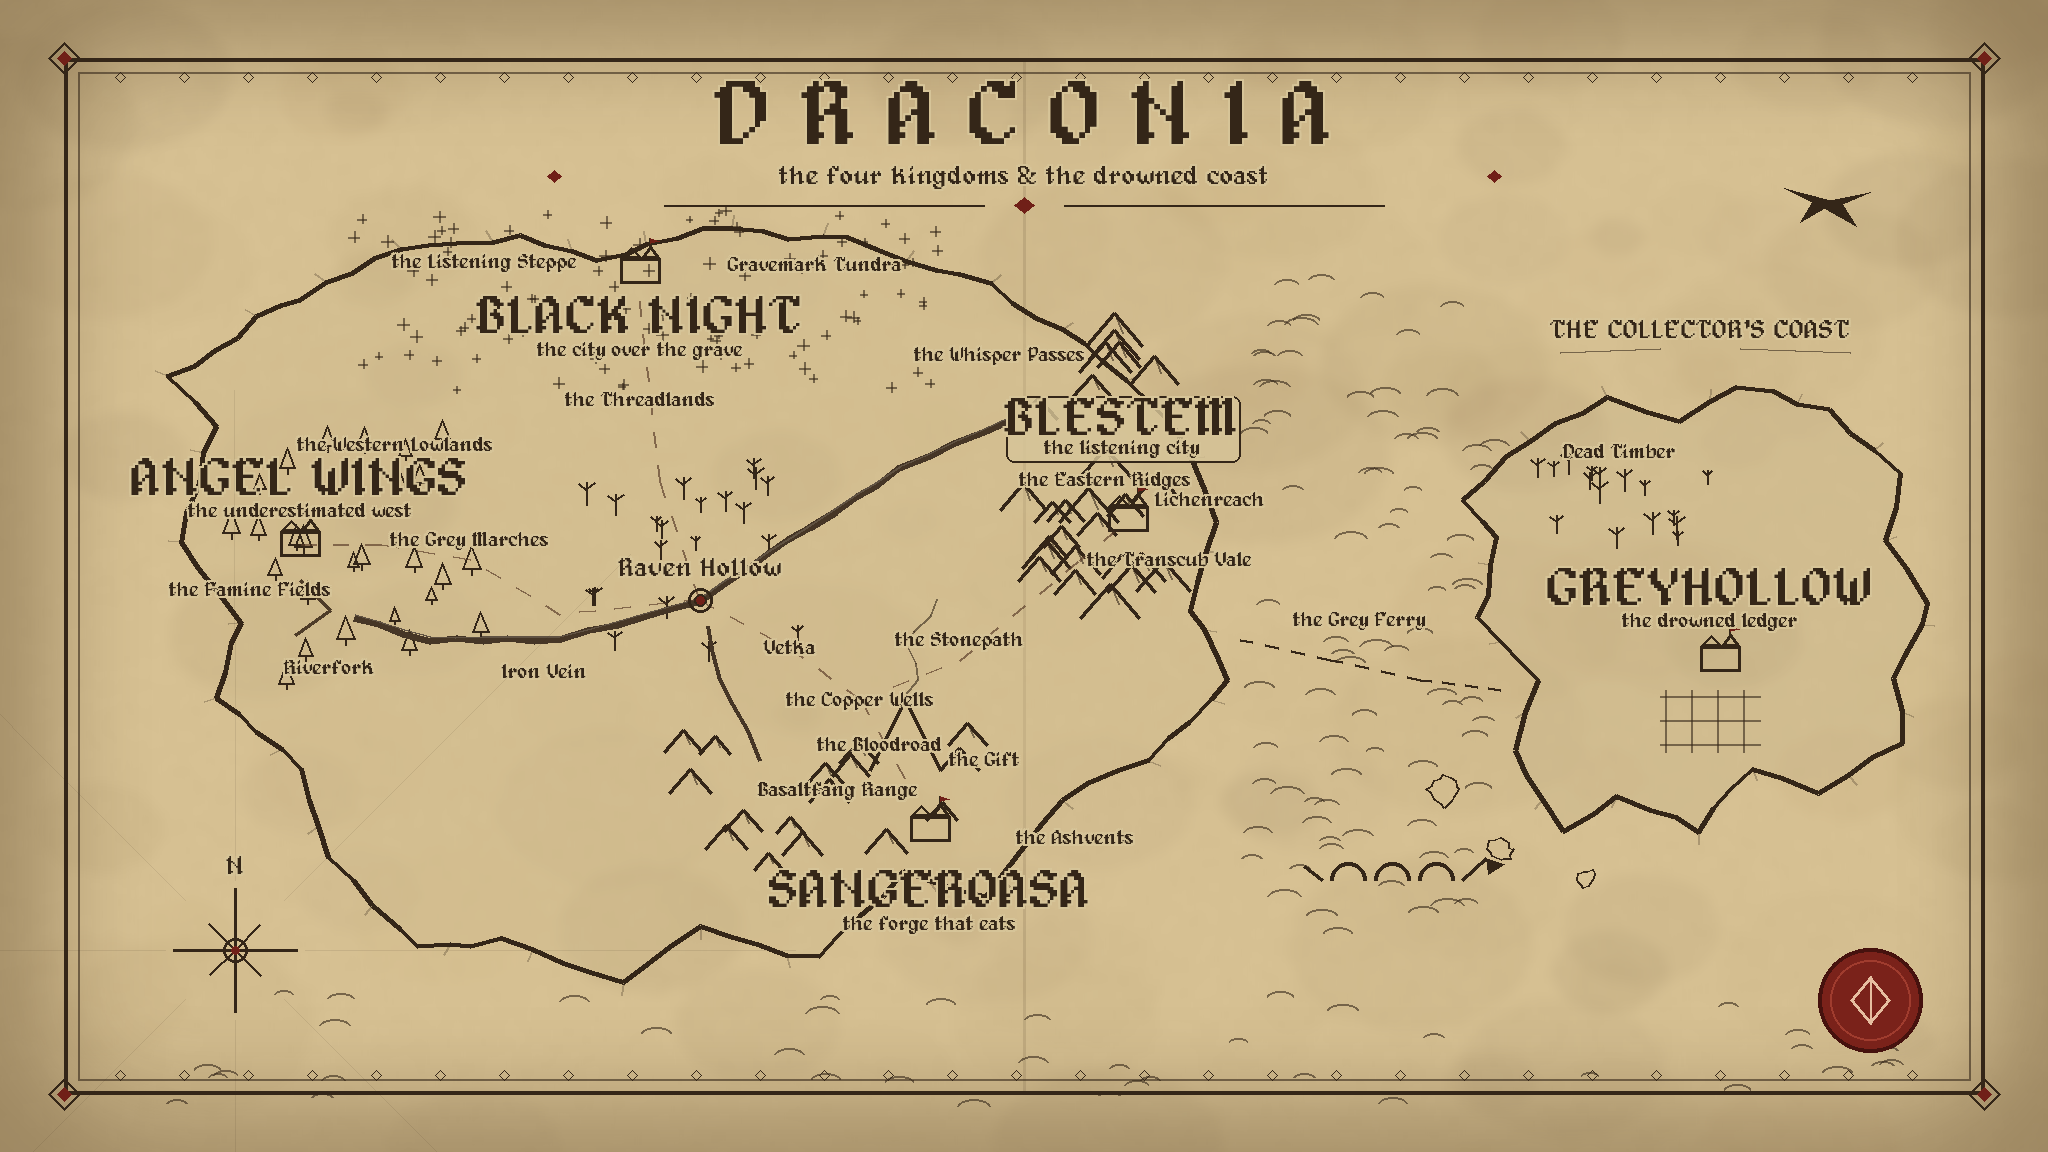
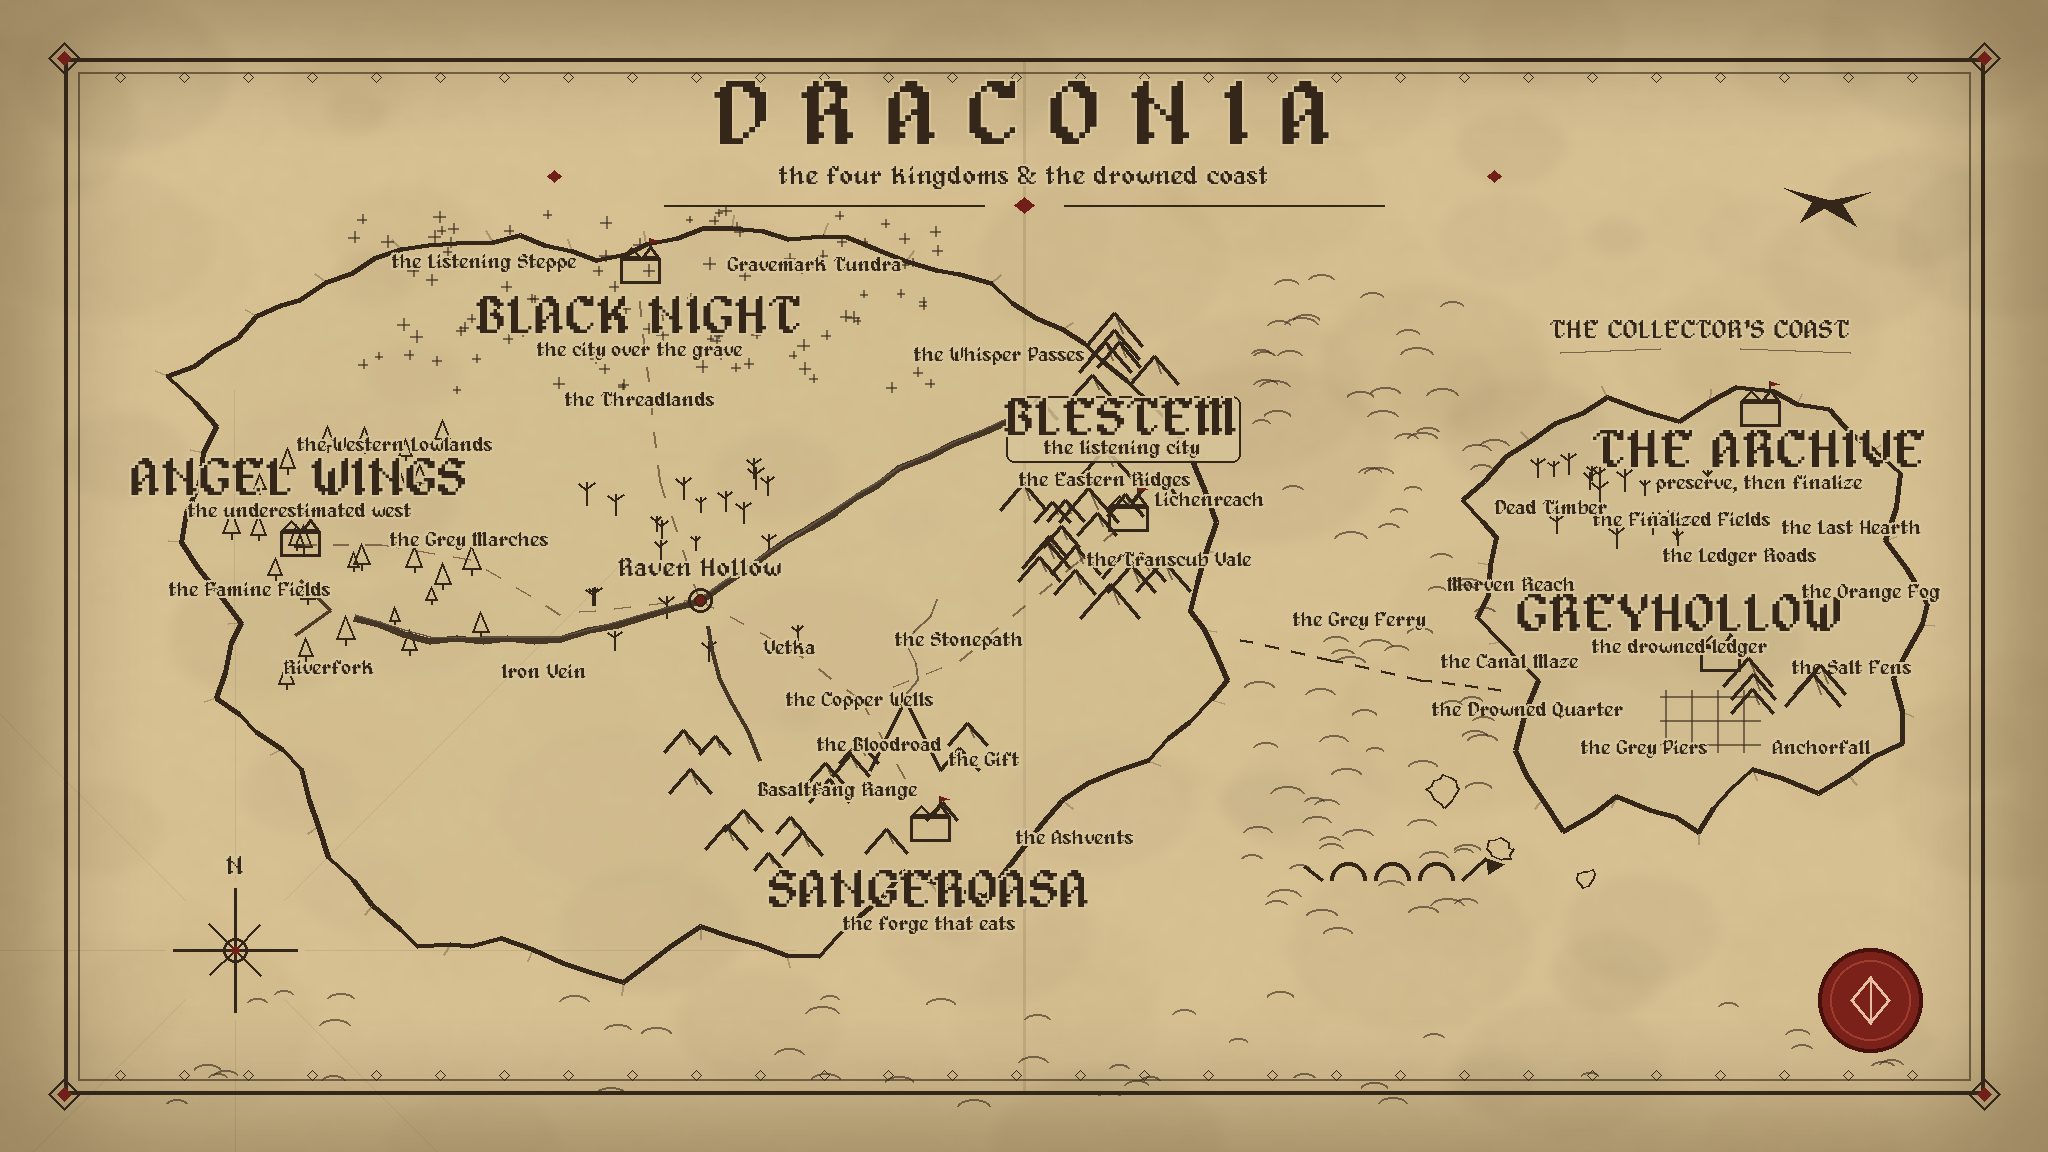
Map v3.3 (#24): Continent 2 complete on the parchment
All 14 Collector's Coast zones placed per the canonical topology grid:
THE ARCHIVE keep in the far north ('preserve, then finalize'),
Anchorfall peaks in the south, the port ring around Greyhollow, the
Grey Ferry route already dashed across the strait. Label collision pass.

Changed region(s): [[0.6875, 0.3438, 0.9375, 0.6562], [0.7812, 0.625, 0.8438, 0.6562]]

diff --git a/tools/map_gen.py b/tools/map_gen.py
@@ -259,9 +259,24 @@ keep(d, 1720, 660)                            # Greyhollow
 label(d, (1700, 330), "THE COLLECTOR'S COAST", F_ZONE, INK)
 d.line([(1560, 352), (1660, 348)], fill=INK_SOFT, width=2)
 d.line([(1740, 348), (1850, 352)], fill=INK_SOFT, width=2)
-label(d, (1710, 590), "GREYHOLLOW", F_KINGDOM)
-label(d, (1710, 621), "the drowned ledger", F_SMALL, INK_SOFT)
-label(d, (1620, 452), "Dead Timber", F_SMALL, INK_SOFT)
+label(d, (1680, 616), "GREYHOLLOW", F_KINGDOM)
+label(d, (1680, 647), "the drowned ledger", F_SMALL, INK_SOFT)
+# — Continent 2 zones per the canonical Batch-G topology grid —
+keep(d, 1760, 415)   # the Archive (N capital)
+label(d, (1760, 452), "THE ARCHIVE", F_KINGDOM)
+label(d, (1760, 483), "preserve, then finalize", F_SMALL, INK_SOFT)
+label(d, (1682, 520), "the Finalized Fields", F_SMALL, INK_SOFT)
+label(d, (1852, 528), "the Last Hearth", F_SMALL, INK_SOFT)
+label(d, (1740, 556), "the Ledger Roads", F_SMALL, INK_SOFT)
+label(d, (1872, 592), "the Orange Fog", F_SMALL, INK_SOFT)
+label(d, (1512, 585), "Morven Reach", F_SMALL, INK_SOFT)
+label(d, (1510, 662), "the Canal Maze", F_SMALL, INK_SOFT)
+label(d, (1852, 668), "the Salt Fens", F_SMALL, INK_SOFT)
+label(d, (1528, 710), "the Drowned Quarter", F_SMALL, INK_SOFT)
+label(d, (1645, 748), "the Grey Piers", F_SMALL, INK_SOFT)
+mountains(d, 1790, 700, 5, 42, 26)
+label(d, (1822, 748), "Anchorfall", F_SMALL, INK_SOFT)
+label(d, (1552, 508), "Dead Timber", F_SMALL, INK_SOFT)
 
 # sea + the Grey Ferry route (era-crossing)
 waves(d, (1240, 260, 1480, 940), 80)